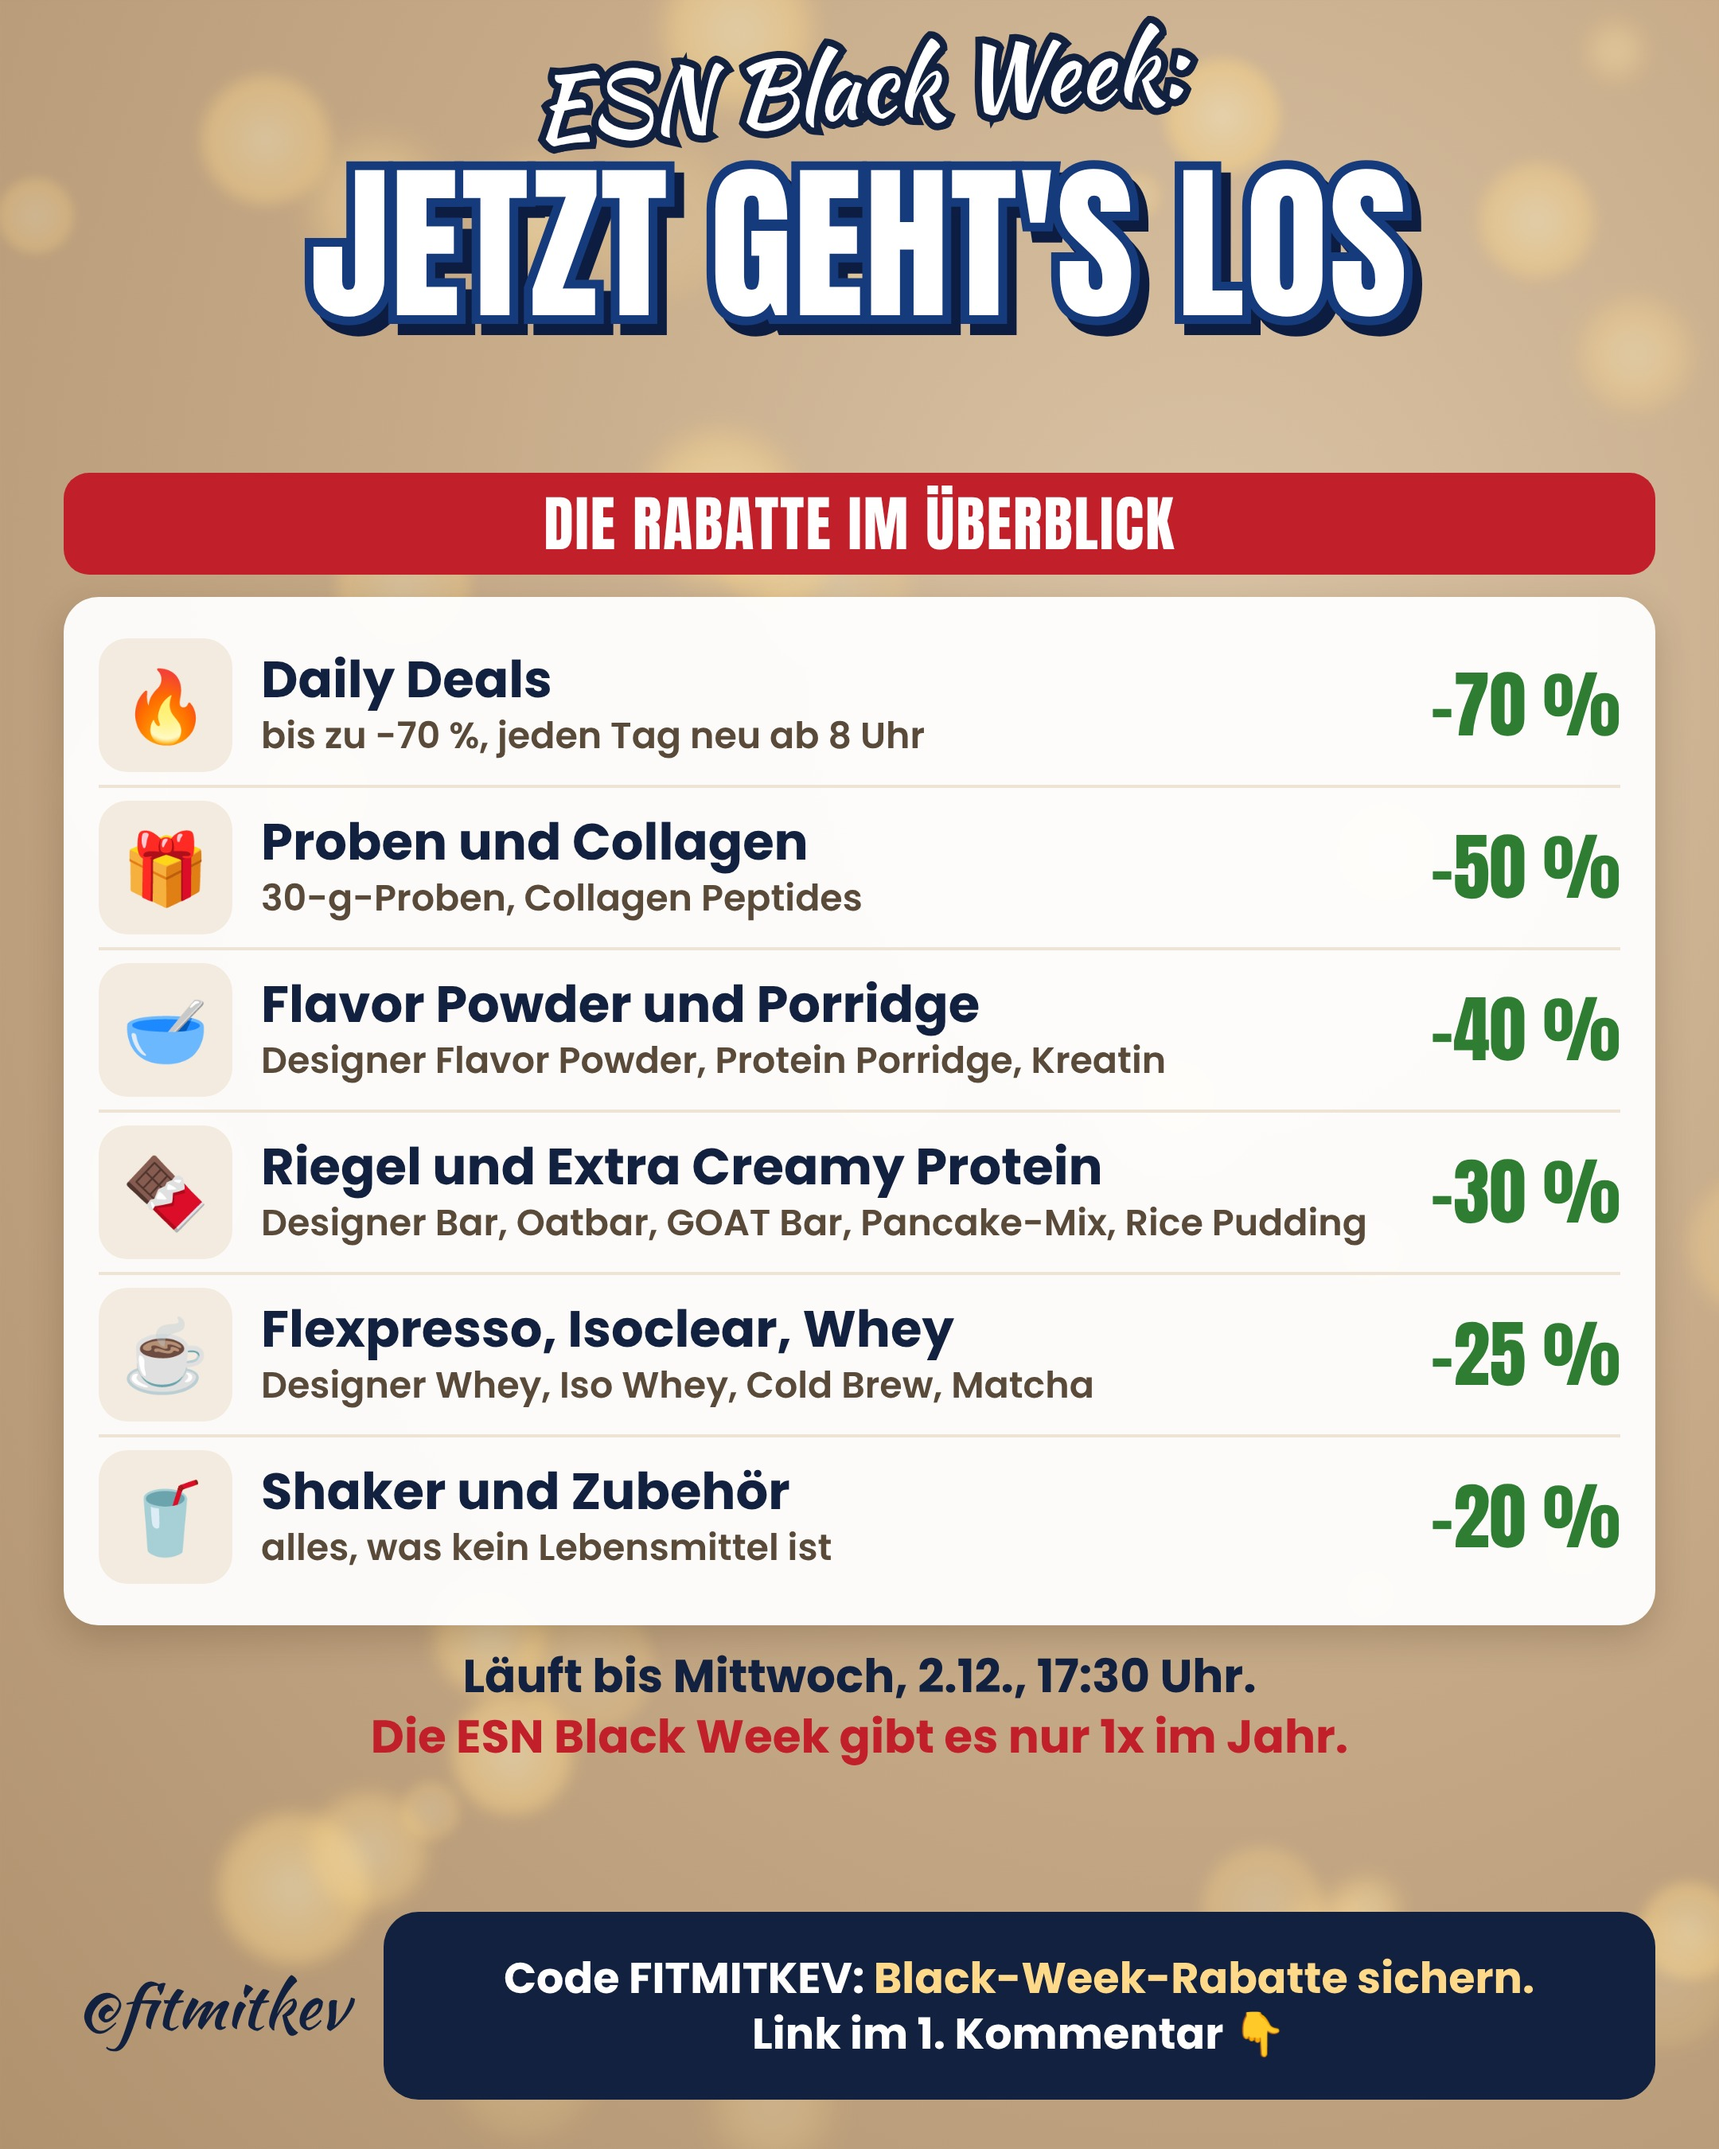
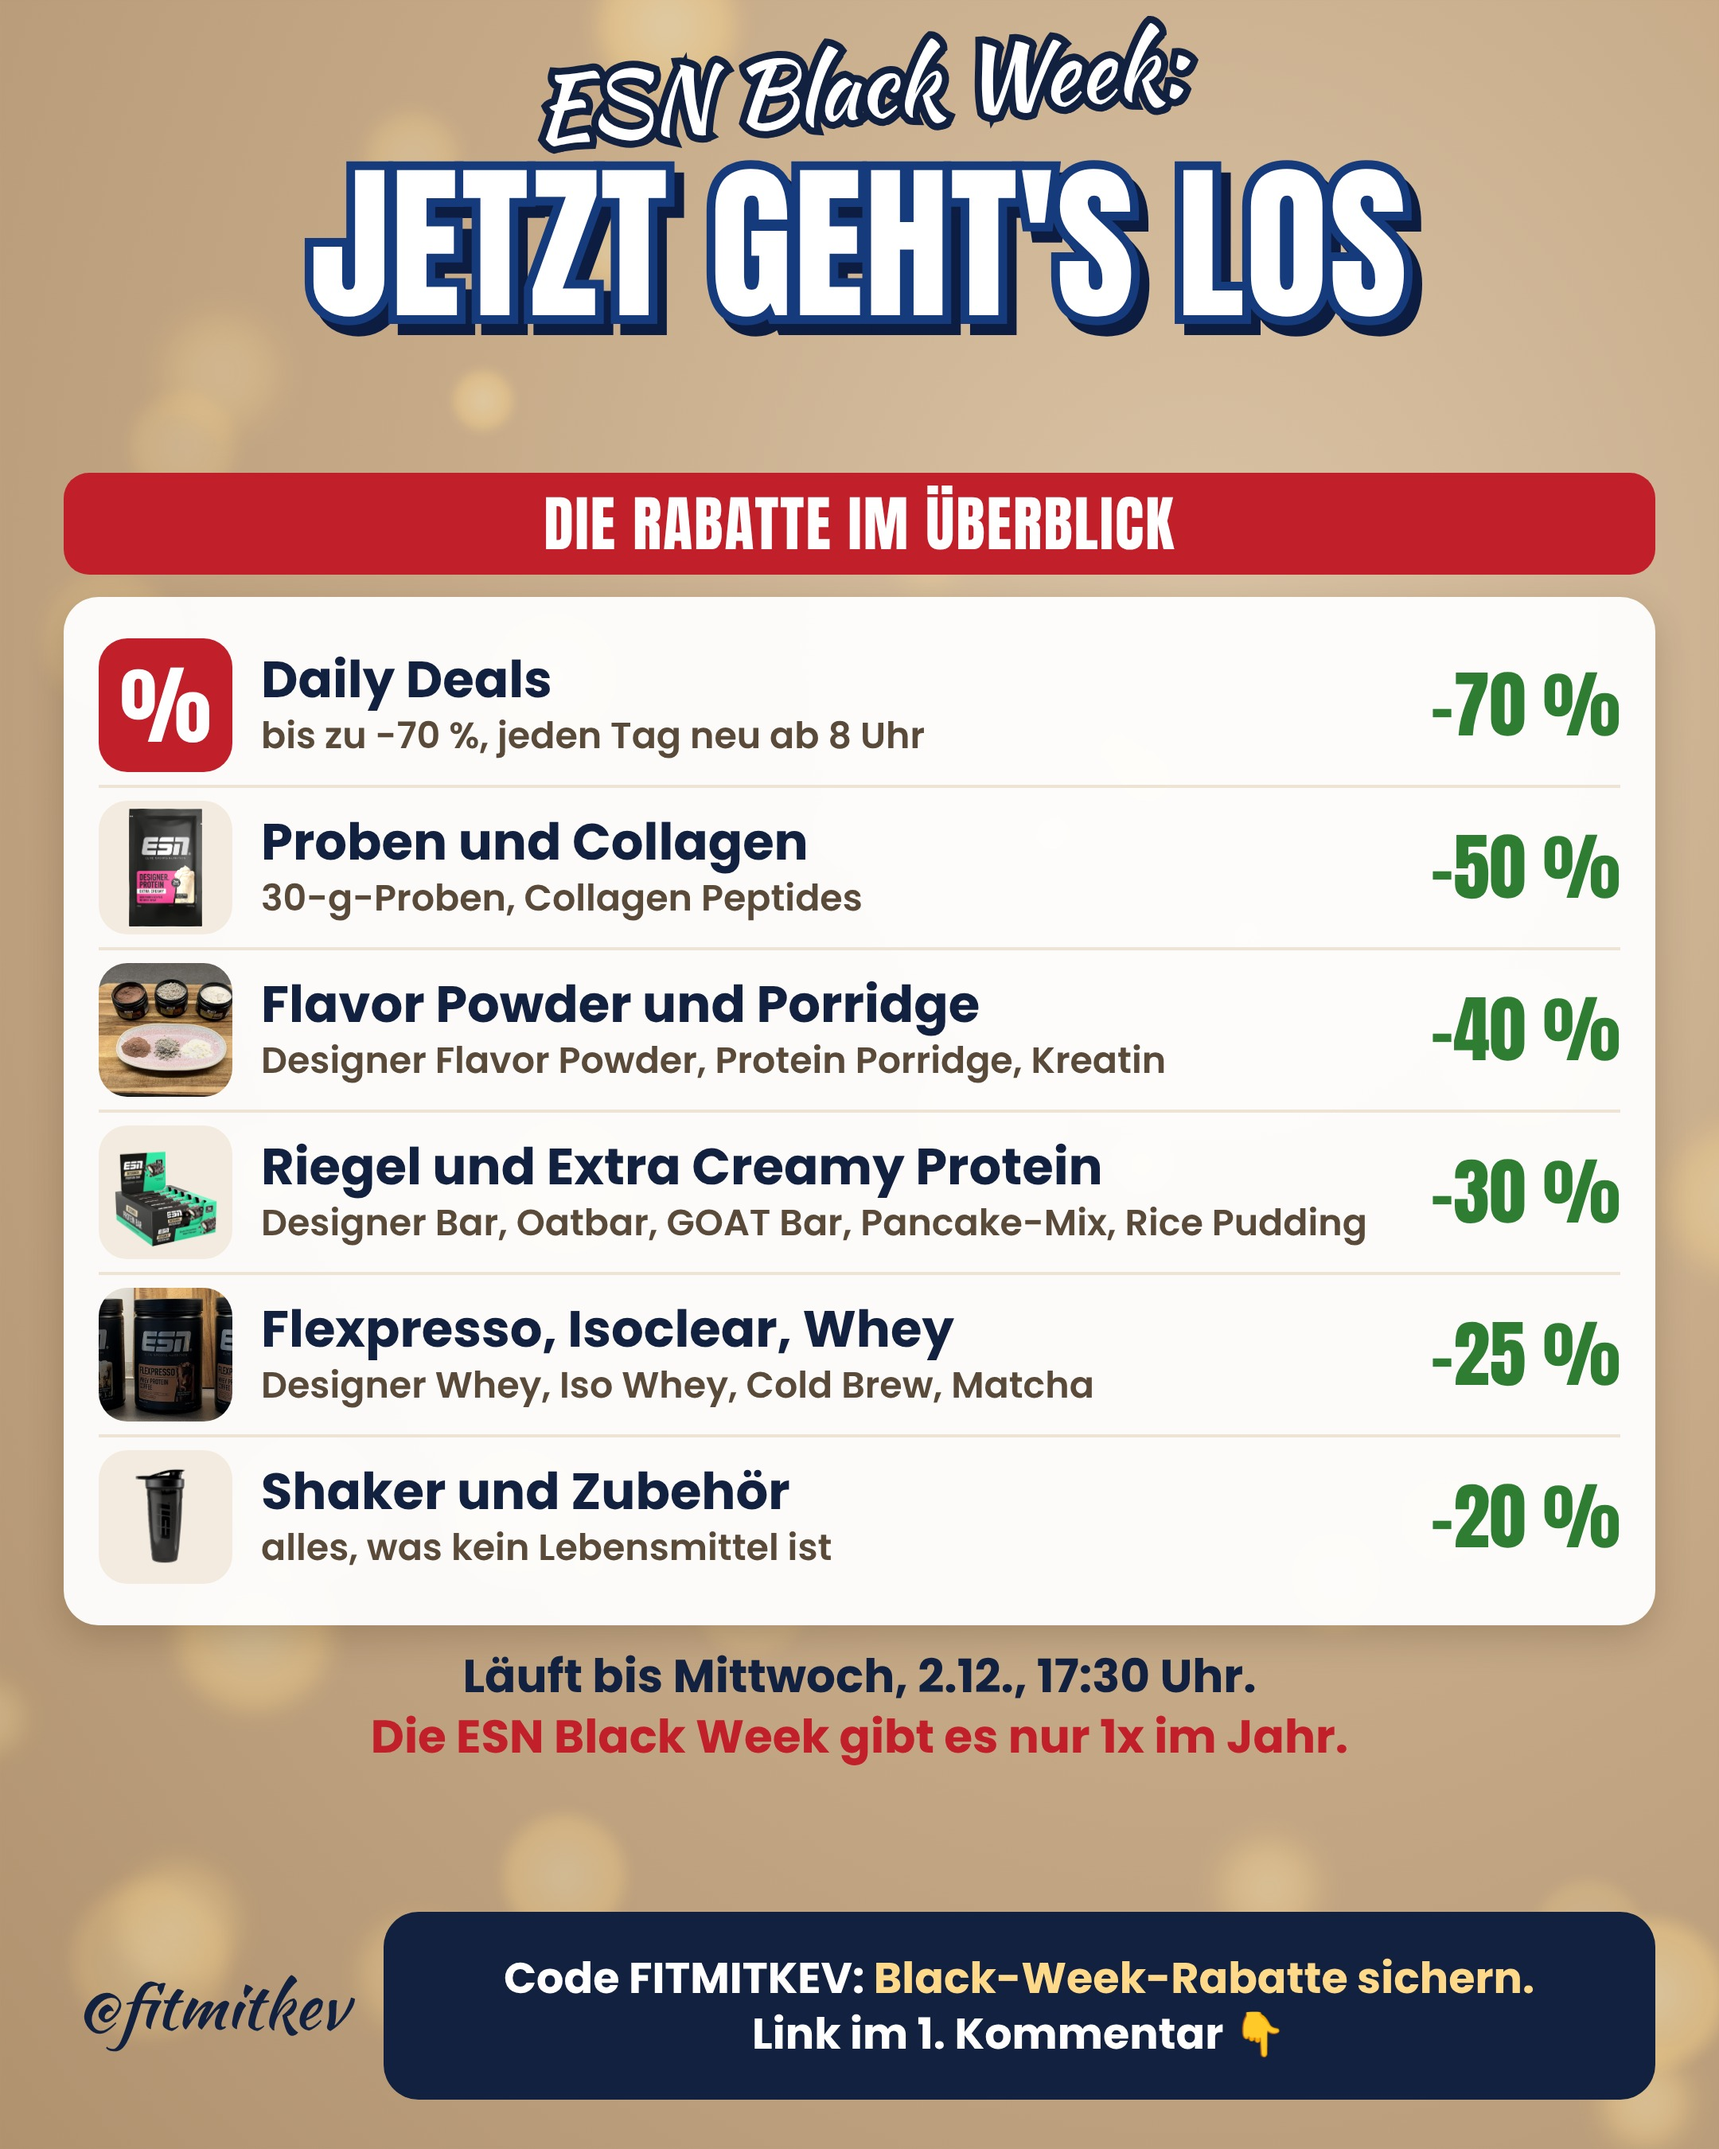
ESN P0 „Jetzt geht's los“: Produktbilder statt Emojis
Claude-Session: https://claude.ai/code/session_01KPVmpRePrZAkggdzf7KsfK

diff --git a/tools/esn_produkt/esn_board.py b/tools/esn_produkt/esn_board.py
@@ -53,15 +53,15 @@ SPEC={
    css='.ri{width:104px;height:104px;overflow:hidden;font-size:50px}.ri img{max-width:104px;max-height:104px;border-radius:14px}.rw{padding:9px 0}.msg{font-size:27px;line-height:1.3}'),
  'P0':dict(out='ESN-P0-Jetzt-gehts-los', hook='ESN Black Week:', title=["JETZT GEHT'S LOS"], size=106,
    secs=[dict(lab='DIE RABATTE IM ÜBERBLICK', col=RED, type='rows', d=[
-      ('🔥','Daily Deals','bis zu -70 %, jeden Tag neu ab 8 Uhr','-70 %'),
-      ('🎁','Proben und Collagen','30-g-Proben, Collagen Peptides','-50 %'),
-      ('🥣','Flavor Powder und Porridge','Designer Flavor Powder, Protein Porridge, Kreatin','-40 %'),
-      ('🍫','Riegel und Extra Creamy Protein','Designer Bar, Oatbar, GOAT Bar, Pancake-Mix, Rice Pudding','-30 %'),
-      ('☕','Flexpresso, Isoclear, Whey','Designer Whey, Iso Whey, Cold Brew, Matcha','-25 %'),
-      ('🥤','Shaker und Zubehör','alles, was kein Lebensmittel ist','-20 %')])],
+      ('%','Daily Deals','bis zu -70 %, jeden Tag neu ab 8 Uhr','-70 %'),
+      ('extra-creamy-30g-vanilla-milk.png','Proben und Collagen','30-g-Proben, Collagen Peptides','-50 %'),
+      ('kev/sq-Kev-FlavorPowder-oben.jpg','Flavor Powder und Porridge','Designer Flavor Powder, Protein Porridge, Kreatin','-40 %'),
+      ('designer-bar-mint-box.png','Riegel und Extra Creamy Protein','Designer Bar, Oatbar, GOAT Bar, Pancake-Mix, Rice Pudding','-30 %'),
+      ('kev/sq-Kev-Flexpresso-3-Sorten.jpg','Flexpresso, Isoclear, Whey','Designer Whey, Iso Whey, Cold Brew, Matcha','-25 %'),
+      ('shaker-black.png','Shaker und Zubehör','alles, was kein Lebensmittel ist','-20 %')])],
    mid='Läuft bis Mittwoch, 2.12., 17:30 Uhr.<br><span>Die ESN Black Week gibt es nur 1x im Jahr.</span>',
    msg='Code FITMITKEV: <span>Black-Week-Rabatte sichern.</span><br>Link im 1. Kommentar 👇',
-   css='.ri{width:84px;height:84px;font-size:44px}.rw{padding:8px 0;gap:18px}.r1{font-size:32px}.r2{font-size:23px}.msg{font-size:27px;line-height:1.3}'),
+   css='.ri{width:84px;height:84px;font-size:44px;overflow:hidden}.ri img{max-width:84px;max-height:84px;border-radius:12px}.ri img[src$=".png"]{max-width:74px;max-height:74px;border-radius:0}.rw:first-child .ri{background:#c1202b;color:#fff;font-family:A;font-size:54px}.rw{padding:8px 0;gap:18px}.r1{font-size:32px}.r2{font-size:23px}.msg{font-size:27px;line-height:1.3}'),
  'P1':dict(out='ESN-P1-Einkaufszettel', hook="Gleich geht's los:", title=['MEIN EINKAUFSZETTEL','FÜR DIE BLACK WEEK'], size=76,
    secs=[dict(lab='DAS KOMMT BEI MIR IN DEN WARENKORB', col=RED, type='rows', d=[
       ('kev/sq-Kev-Flexpresso-3-Sorten.jpg','Flexpresso für morgens','White & Dark Chocolate Mocha, Chocolate','-25 %'),
